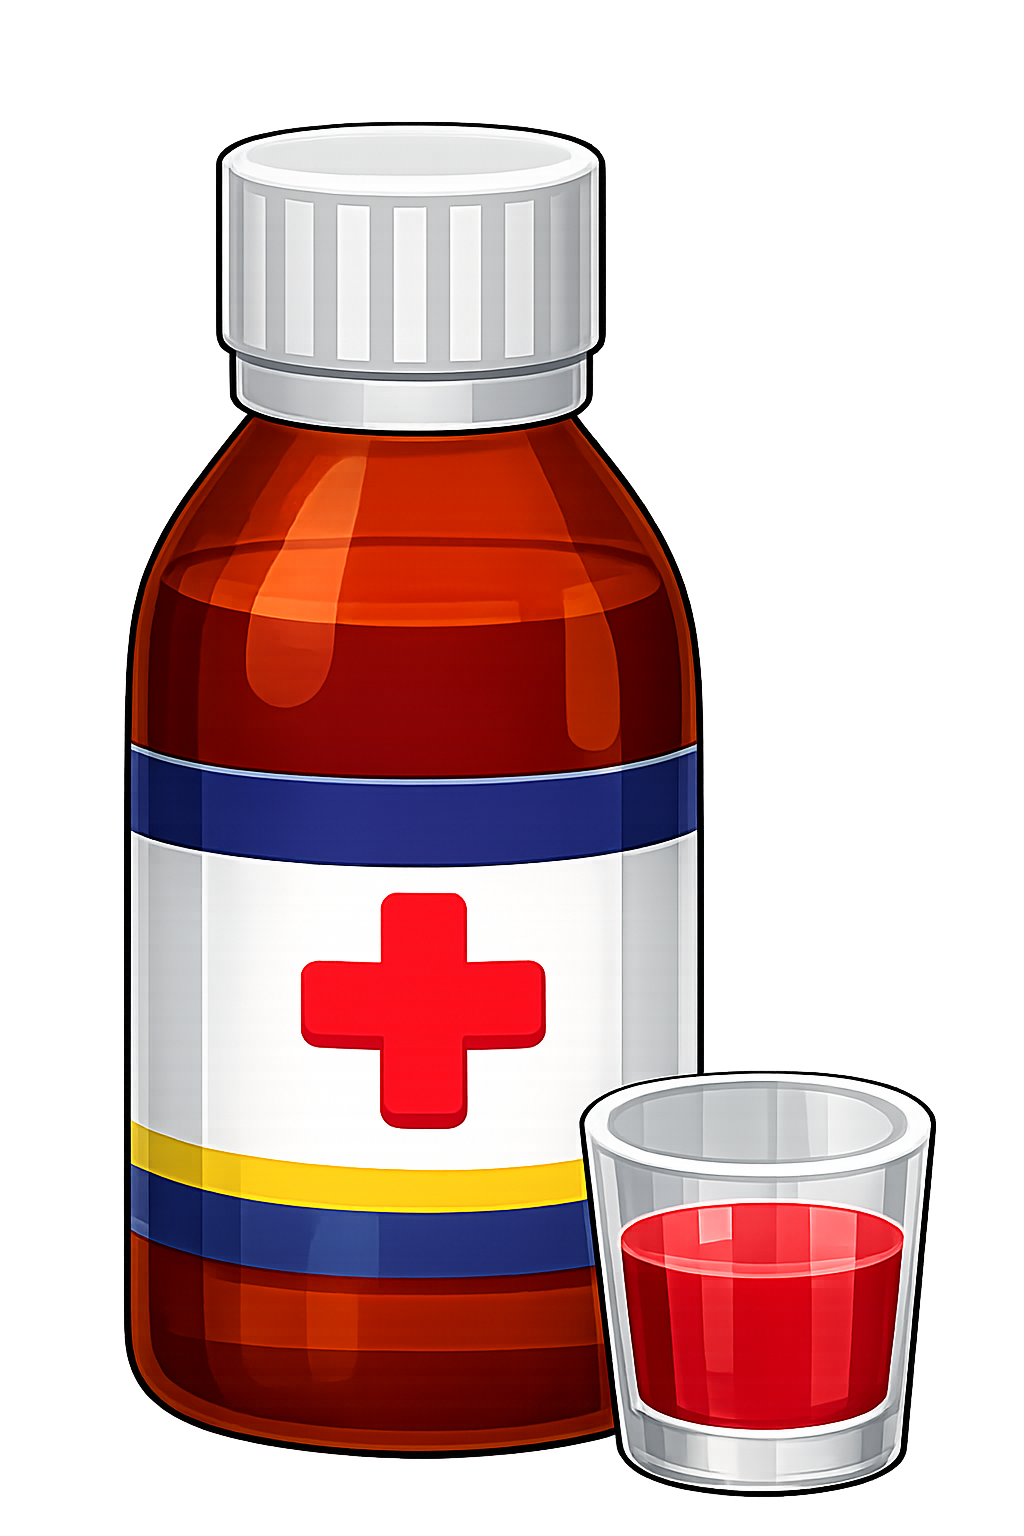
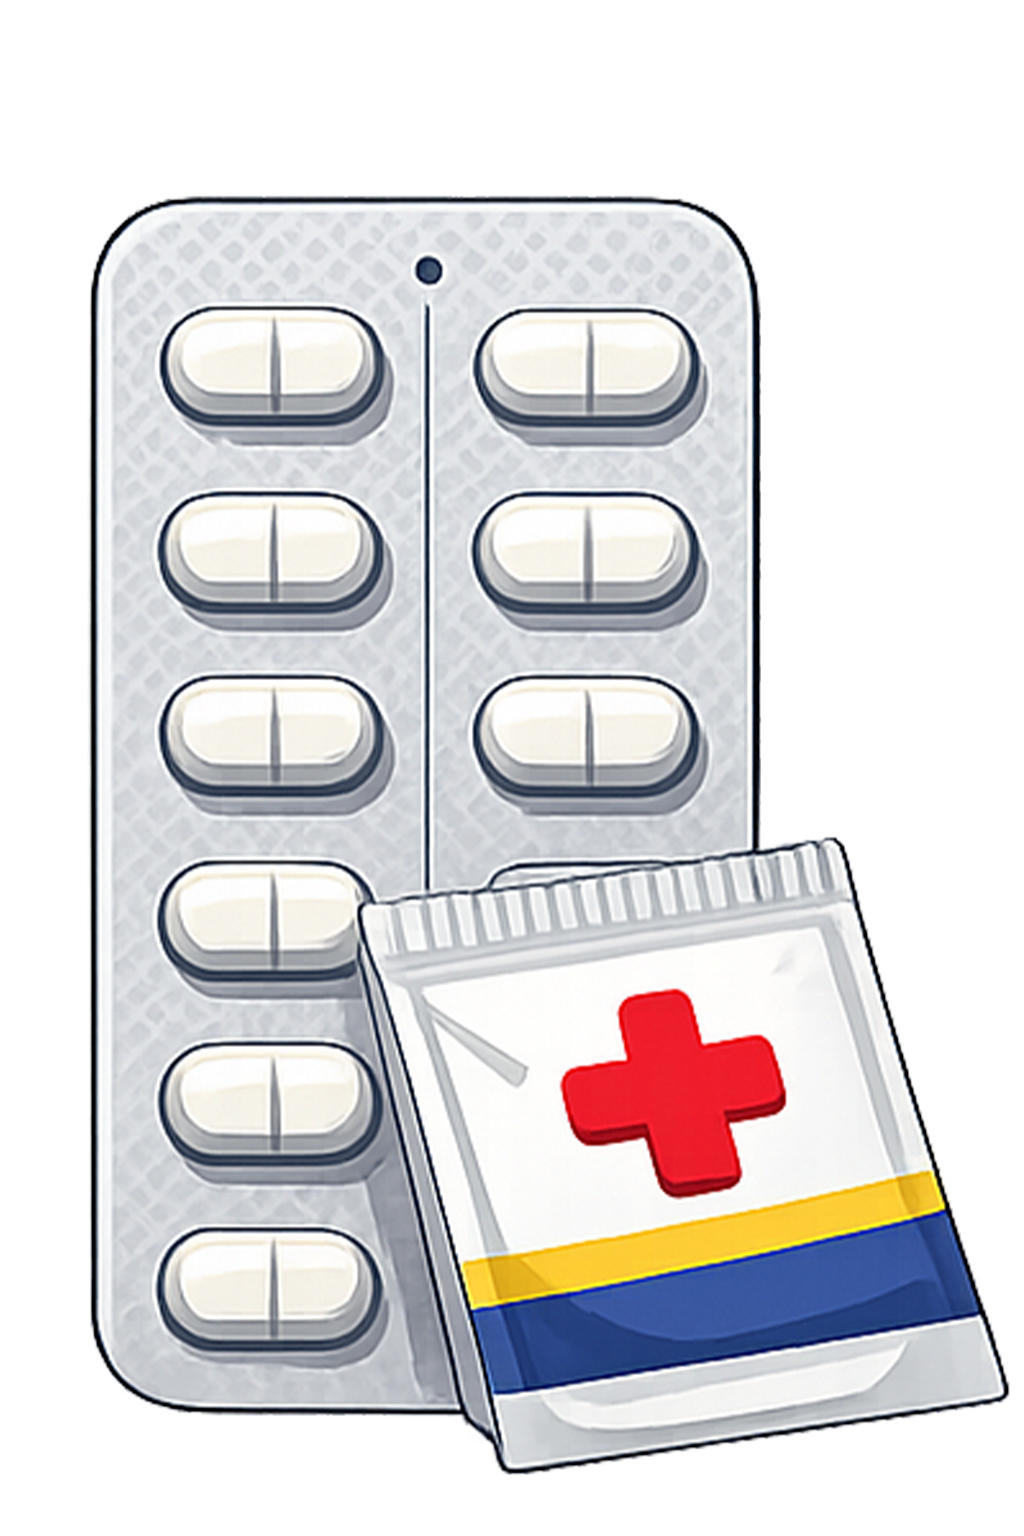
projeto da farmácia finalizado

diff --git a/JavaFX e BD/Farmacia_BD/src/main/java/org/example/controller/BalcaoController.java b/JavaFX e BD/Farmacia_BD/src/main/java/org/example/controller/BalcaoController.java
@@ -53,51 +53,23 @@ public class BalcaoController {
     private final Map<String, Image> imageCache = new HashMap<>();
 
     List<double[]> slots = List.of(
-            new double[]{152, 348, 48, 48},
-            new double[]{121, 363, 48, 48},
-            new double[]{233, 349, 48, 48},
-            new double[]{202, 364, 48, 48},
-            new double[]{350, 380, 48, 48},
-            new double[]{335, 405, 48, 48},
-            new double[]{400, 380, 48, 48},
-            new double[]{385, 405, 48, 48},
-            new double[]{496, 385, 48, 48},
-            new double[]{481, 410, 48, 48},
-            new double[]{546, 385, 48, 48},
-            new double[]{531, 410, 48, 48},
-            new double[]{471, 435, 48, 48},
-            new double[]{644, 386, 48, 48},
-            new double[]{629, 411, 48, 48},
-            new double[]{64, 500, 48, 48},
-            new double[]{49, 525, 48, 48},
-            new double[]{39, 550, 48, 48},
-            new double[]{143, 500, 48, 48},
-            new double[]{128, 525, 48, 48},
-            new double[]{118, 550, 48, 48},
-            new double[]{218, 500, 48, 48},
-            new double[]{193, 550, 48, 48},
-            new double[]{217, 501, 48, 48},
-            new double[]{202, 526, 48, 48},
-            new double[]{192, 551, 48, 48},
-            new double[]{292, 501, 48, 48},
-            new double[]{274, 526, 48, 48},
-            new double[]{259, 551, 48, 48},
-            new double[]{370, 501, 48, 48},
-            new double[]{355, 526, 48, 48},
-            new double[]{345, 551, 48, 48},
-            new double[]{445, 501, 48, 48},
-            new double[]{427, 526, 48, 48},
-            new double[]{412, 551, 48, 48},
-            new double[]{527, 502, 48, 48},
-            new double[]{512, 527, 48, 48},
-            new double[]{502, 552, 48, 48},
-            new double[]{602, 502, 48, 48},
-            new double[]{584, 527, 48, 48},
-            new double[]{569, 552, 48, 48},
-            new double[]{677, 526, 48, 48},
-            new double[]{667, 551, 48, 48},
-            new double[]{752, 524, 48, 48},
-            new double[]{737, 549, 48, 48}
+            new double[]{533, 56, 35, 50},
+            new double[]{572, 56, 35, 50},
+            new double[]{608, 56, 35, 50},
+            new double[]{646, 56, 35, 50},
+            new double[]{681, 56, 35, 50},
+            new double[]{716, 56, 35, 50},
+
+            new double[]{533, 137, 35, 50},
+            new double[]{568, 137, 35, 50},
+            new double[]{606, 137, 35, 50},
+            new double[]{641, 137, 35, 50},
+            new double[]{676, 137, 35, 50},
+            new double[]{711, 137, 35, 50},
+
+            new double[]{533, 215, 35, 50},
+            new double[]{572, 215, 35, 50},
+            new double[]{606, 215, 35, 50}
     );
 
     @FXML
@@ -174,7 +146,6 @@ public class BalcaoController {
             int quantidade = pegarQtdCli();
             boolean sucesso = farmaciaService.consumirProduto(nomeRemedio, quantidade);
             if (sucesso) {
-                animacaoTomar();
                 atualizarIndicadoresCli();
             } else {
                 AlertService.mostrar(anchorPane, "Operação não realizada. Verifique o estoque.", AlertService.Tipo.ERRO);
@@ -327,20 +298,6 @@ public class BalcaoController {
         qtdAmoxicilinaCli.setText(cesta.getOrDefault("Amoxicilina", 0) + "x");
 
         saldoCliente.setText("R$ " + farmaciaService.saldoCliente());
-    }
-
-    private void animacaoTomar() {
-        cliente.setVisible(false);
-        //clienteTomando.setVisible(true);
-
-        PauseTransition pausa = new PauseTransition(Duration.seconds(3));
-
-        pausa.setOnFinished(e -> {
-            //clienteTomando.setVisible(false);
-            cliente.setVisible(true);
-        });
-
-        pausa.play();
     }
 
     private void animacaoBalao(String texto) {